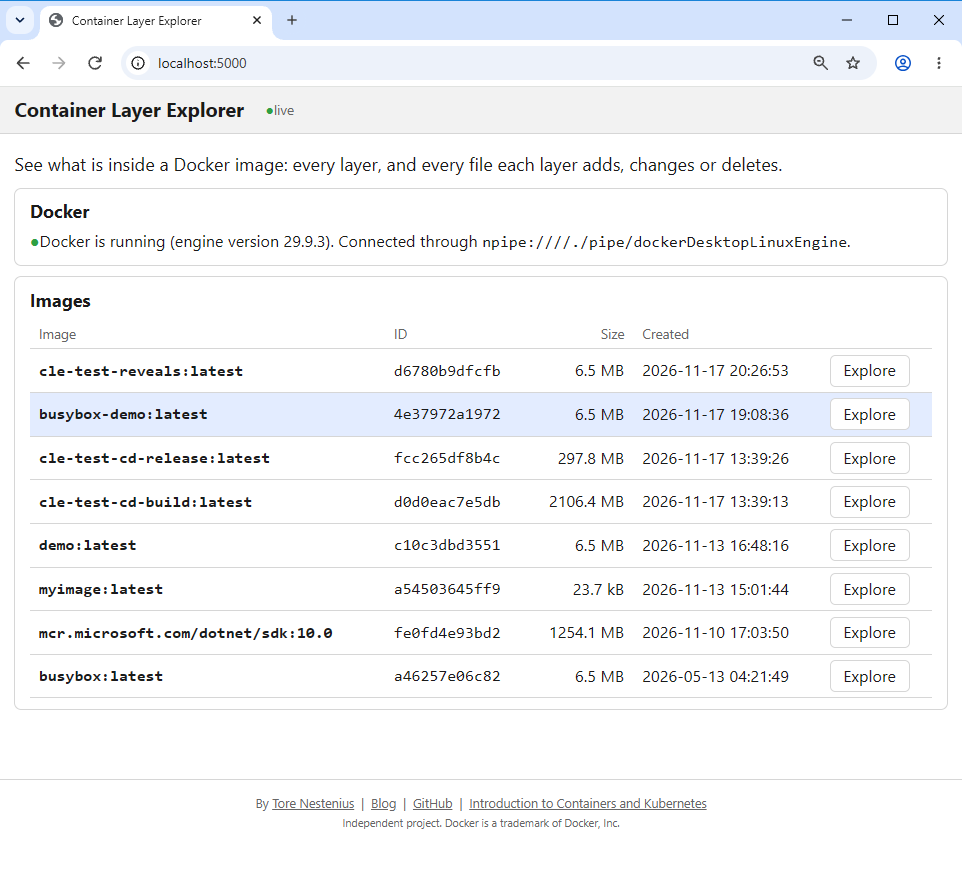
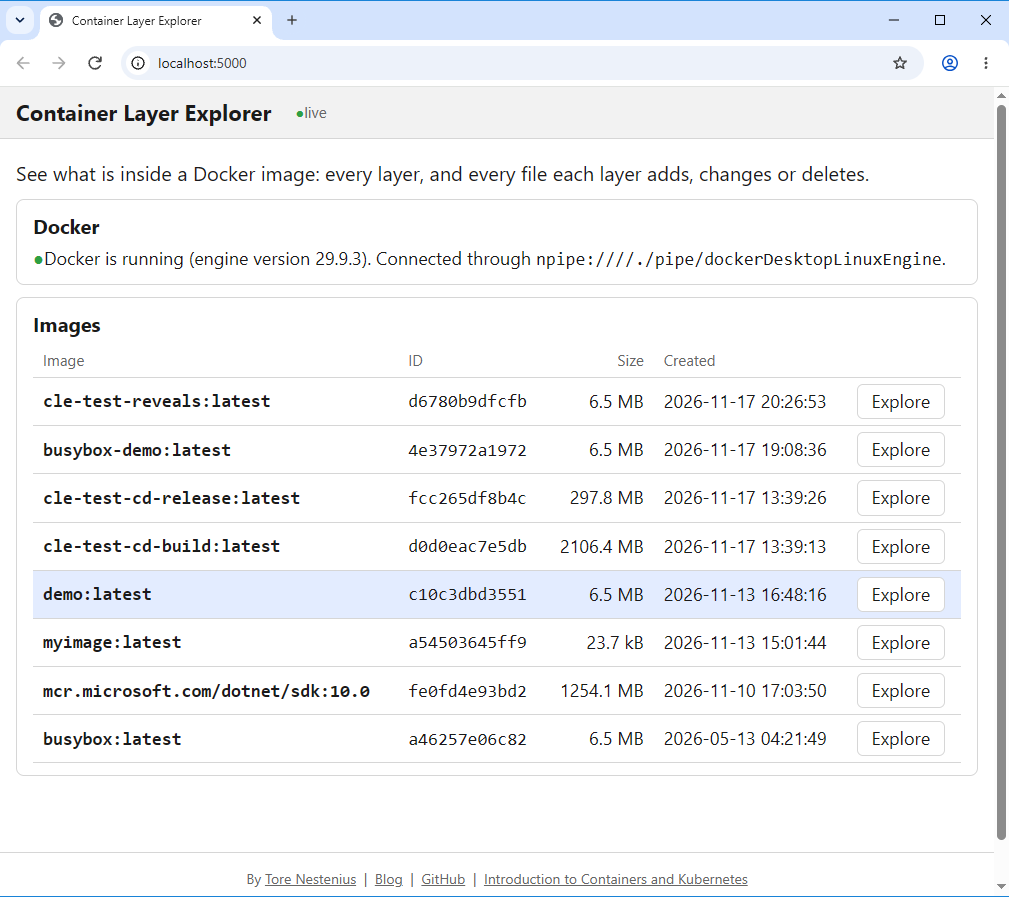
Refactorings and improvements

diff --git a/README.md b/README.md
@@ -3,41 +3,35 @@
 [![Build and test](https://github.com/tndata/ContainerLayerExplorer/actions/workflows/build-and-test.yml/badge.svg)](https://github.com/tndata/ContainerLayerExplorer/actions/workflows/build-and-test.yml)
 [![License: MIT](https://img.shields.io/badge/license-MIT-blue.svg)](LICENSE)
 
-Container Layer Explorer is a local web tool for exploring Docker and OCI image layers. It shows which files each layer of a container image adds, changes or deletes, as a matrix of file paths and layers, and it updates automatically when you rebuild the image. It also draws the image as a stack of layers and shows what the image config and manifest reveal.
+Container Layer Explorer is a local web app that shows every layer of a Docker or OCI image and what each build step adds, changes or deletes. You see the layers as a matrix of file paths and as a stack, together with what the image config and manifest reveal. The view updates when you rebuild the image.
 
-![The Matrix view of the sample image: one column per layer, one row per path, with added (A), changed (M) and deleted (D) cells and a Result column](docs/images/matrix.png)
+When I teach containers, I notice that developers use images every day, but the layered file system inside them is often a challenge to grasp. The same questions keep coming up:
 
-## Why I built it
+- Which files end up in which layer?
+- What happens when I delete a file in a later step?
+- What affects the final image size?
 
-When I teach containers, one challenge is to present image building in an intuitive way and to give students the right mental model of what happens. So I created this tool to visualize it. You see every layer of an image and what each build step adds, changes or deletes, and the view updates when you rebuild. I use it in my container training, and I have decided to open source it.
+I built Container Layer Explorer to make that visible, so you get a clear mental model of how the layers are stacked on top of each other and merged into the one file system that a container sees. This is the idea behind a union file system. I also use it in my own training, for example in my course [Introduction to Containers and Kubernetes](https://tn-data.se/courses/introduction-to-containers-and-kubernetes/).
 
-## What it shows
+The diagram below shows the general setup:
 
-- **A matrix of paths and layers.** An image opens in the Matrix view: one row per file or folder, one column per layer. Each cell says if the layer added (A), changed (M) or deleted (D) that path, and the Result column shows what a container gets.
-- **How deletions work.** A deleted file is only hidden by a whiteout marker in a later layer. The file is still in the layer below, so the image does not get smaller. The tool shows that.
-- **File contents.** Click a cell to see what the layer did to that path and, for a text file, its content in that layer.
-- **The build steps.** Each layer column shows the Dockerfile step behind it. Click the column header for the full command and the steps that make no layer, such as `ENV` and `CMD`.
-- **Large images.** The folders directly under `/` start collapsed into one summary row each, with the number of paths and what each layer adds, changes or deletes in them. Expand what you want to look at. A filter box narrows the paths.
-- **The image as a stack.** Switch to the Stack view to see the layers drawn bottom to top, the first build step at the bottom and the last on top, each with its build command, a short layer ID, its compressed size and the size of its files. Thin 0 B rows are the steps that make no layer, such as `ENV` and `LABEL`. Above the stack are the image's tags, image ID, creation time, platform, the number of layers and build steps, and the size of the files and of the stored, compressed layers.
-- **What an image reveals.** With the image selected, the right side lists what anyone with a copy of the image can read from its config and manifest: creation time, build steps, author, labels, environment variables, user, ports, volumes, health check and more. Each row says where the fact comes from, and an empty row says what is missing.
-
-  ![The Stack view of the sample image: the image facts at the top, the five layers drawn as a stack on the left, and what the image reveals on the right](docs/images/stack.png)
-
-- **Layer details.** Click a layer in the stack to see its details instead: the build step and its time, both fingerprints (content and stored blob), the sizes and compression, what it adds, changes and deletes, its biggest files, how much of its data later layers hide, and permission facts such as setuid programs and world-writable folders. A step without a layer can be clicked too.
-
-  ![The Stack view with layer 3 selected: its build step, fingerprints, sizes, changes and biggest files on the right](docs/images/stack-layer.png)
-
-- **Live update.** Build or rebuild an image and the page follows it. A layer that is new since your previous build gets a NEW badge, and the layers that came from the build cache do not.
-- **A start page.** It lists the images in your local Docker, updates live, and shows a message when Docker is not running.
+![Overview: a container registry, docker pull into Docker Desktop on your computer, the container image read by Container Layer Explorer, and the result shown in the browser at localhost](docs/images/container-layer-explorer-overview.png)
 
 ## Requirements
 
-- The [.NET 10 SDK](https://dotnet.microsoft.com/download) or newer
-- [Docker Desktop](https://www.docker.com/products/docker-desktop/), running
+I have tested the tool in the following setup:
+
+- Windows with [Docker Desktop](https://www.docker.com/products/docker-desktop/), running.
+- Docker Desktop in Linux containers mode (the default).
+- The [.NET 10 SDK](https://dotnet.microsoft.com/download).
+
+There are no binary releases. You build and run the tool from source.
+
+I have not tested other setups, such as Linux, macOS or other container engines. Help to support and verify them is welcome, so get in touch or send a pull request.
 
 ## Quick start
 
-1. Start Docker Desktop, then run the tool from source:
+1. Start Docker Desktop. Then get the source code and run the tool:
 
    ```bash
    git clone https://github.com/tndata/ContainerLayerExplorer.git
@@ -45,26 +39,30 @@ When I teach containers, one challenge is to present image building in an intuit
    dotnet run --project src/ContainerLayerExplorer
    ```
 
-   Your browser opens at <http://localhost:5000>.
+2. When the terminal shows `Now listening on: http://localhost:5000`, open <http://localhost:5000> in your browser. Leave that terminal running. The tool stops when you press Ctrl+C or close the terminal.
 
-2. In another terminal, make an empty folder with a text file called `Hello.txt` (any text) and a `Dockerfile`:
+3. In another terminal, make an empty folder with a text file called `Hello.txt` (any text) and a `Dockerfile`:
 
    ```dockerfile
    FROM scratch
    COPY Hello.txt /
    ```
 
-3. Build it:
+   This Dockerfile starts from `scratch`, the empty image, and copies `Hello.txt` into the root of the image. The result is an image with a single layer.
+
+4. Build it from that folder:
 
    ```bash
    docker build -t demo .
    ```
 
-4. In the tool, pick `demo` and choose **Explore**. The Matrix view shows one layer column and its one file. Switch to **Stack** to see the same layer drawn as a stack.
+   Docker adds the default tag, so the image is called `demo:latest`.
 
-   ![The start page: Docker status and the list of local images](docs/images/start-page.png)
+5. On the start page, find `demo:latest` and choose **Explore**. The Matrix view shows one layer column and its one file. Switch to **Stack** to see the same layer drawn as a stack.
 
-5. Add a line to the Dockerfile and build again:
+   ![The start page: Docker status and the list of local images, with demo:latest highlighted](docs/images/start-page.png)
+
+6. Keep the page open. Add a line to the Dockerfile:
 
    ```dockerfile
    FROM scratch
@@ -72,46 +70,162 @@ When I teach containers, one challenge is to present image building in an intuit
    COPY Hello.txt /Hello2.txt
    ```
 
-   The page updates by itself. The new layer has a NEW badge, and the first one does not.
+   The new line copies the same `Hello.txt` again, this time as `/Hello2.txt`. That adds a second layer on top of the first one.
 
-The tests do not need Docker: `dotnet test`.
+   Then build again with the same command:
+
+   ```bash
+   docker build -t demo .
+   ```
+
+   The page updates by itself. The second layer gets a NEW badge, because its content was not in the image you had open. The first layer has the same content as before, so it gets no badge.
 
 ## Try the sample
 
 The folder [samples/busybox-basics](samples/busybox-basics) holds a small image built on `busybox:1.38.0-glibc` that shows all three kinds of change: added, changed and deleted.
 
-1. With the tool running, build the sample from the folder of this repository. It makes an image called `busybox-demo`:
+1. With the tool running, open a terminal in the folder of this repository and build the sample. It makes an image called `busybox-demo:latest`:
 
    ```bash
    docker build -t busybox-demo samples/busybox-basics
    ```
 
-2. In the tool, pick `busybox-demo` and choose **Explore**. The Matrix view shows the five layers as columns, BusyBox in layer 1. Look at the `/src` folder:
+2. On the start page, find `busybox-demo:latest` and choose **Explore**. The Matrix view shows the five layers as columns, BusyBox in layer 1. Look at the `/src` folder:
    - `Hello1.txt` is added in layer 3 (A) and changed in layer 4 (M). Click the M cell: the layer stores the whole new file, and the old version is still stored in layer 3.
-   - `Hello2.txt` is added in layer 3 and deleted in layer 5 (D). Click the D cell: the file is only hidden by a whiteout marker. Its data is still in layer 3, so the image did not get smaller.
+   - `Hello2.txt` is added in layer 3 and deleted in layer 5 (D). Click the D cell: layer 5 only holds a marker file, `.wh.Hello2.txt`, that hides it. Click **Show it** to see the file's content, still stored in layer 3.
+   - The Result cell of `Hello2.txt` is empty. A container started from this image does not get the file, but anyone with a copy of the image can still read it.
 3. Switch to **Stack** to see the same five layers drawn as a stack, BusyBox at the bottom, and what the image reveals. Click a layer for its details.
-4. Edit the `Dockerfile`, for example add another `COPY` line, and run the same `docker build` command again. Keep the page open and it updates by itself, with a NEW badge on the new layer.
+4. Keep the page open. Add a line at the end of the `Dockerfile`, for example `COPY Hello3.txt Hello4.txt`, and run the same command again:
 
-## What was tested
+   ```bash
+   docker build -t busybox-demo samples/busybox-basics
+   ```
 
-I test the tool on Windows with Docker Desktop. The unit tests also run on Linux in GitHub Actions. The tool can also talk to Docker through a Unix socket, but I have not tried Linux or macOS, so I do not claim that they work.
+   The page updates by itself. The new layer gets a NEW badge. The five layers below it have the same content as before, so they get none.
+
+## How it works
+
+Container Layer Explorer runs on your own computer, next to Docker Desktop, and works only with the images in your local Docker. The basic steps are:
+
+1. **Get an image into Docker.** First, you need a container image in Docker Desktop. You can either build one locally from a Dockerfile or pull one from a registry, such as Docker Hub.
+2. **Start Container Layer Explorer.** Run the tool (see [Quick start](#quick-start)). When the terminal shows `Now listening on`, open `http://localhost:5000` in your browser.
+3. **Open an image.** The start page lists the tagged images in your local Docker. Choose one, and the tool exports it from Docker through the Docker Engine API (the same export as `docker save`) and reads its layers, config and manifest.
+4. **Explore the layers.** See the image as a matrix of files and layers, or as a stack of layers.
+5. **Rebuild and watch it update.** The tool listens to Docker's image events, so when you build, tag or remove an image, the page updates by itself.
+
+The tool changes nothing in Docker. It never starts a container, and it never pushes, pulls, deletes or changes an image. To read an image it does write a copy to your disk, see [Trust and responsibility](#trust-and-responsibility).
+
+## The two views
+
+An image can be shown in two ways, and you switch between them with the **Stack | Matrix** toggle at the top of the page. An image opens in the Matrix view.
+
+### The Matrix view
+
+![The Matrix view of the sample image: one column per layer, one row per path, with added (A), changed (M) and deleted (D) cells and a Result column](docs/images/matrix.png)
+
+- **Paths and layers.** One row per file or folder, one column per layer. Each cell shows if the layer added (A), changed (M) or deleted (D) that path. M means the layer wrote the path again; the contents are not compared.
+- **The result.** The Result column shows the final file system, which is what a container gets. A deleted file is only hidden: its data is still stored in the layer below, so the image does not get smaller.
+- **File contents.** Click a cell to see what the layer did to that path, and the content of a text file in that layer.
+- **Build steps.** Each column shows the Dockerfile step behind the layer, taken from the build history stored in the image. Click the column header for the full command.
+- **Large images.** Top-level folders start collapsed, and a filter box narrows the list.
+
+### The Stack view
+
+![The Stack view of the sample image: the image facts at the top, the five layers drawn as a stack on the left, and what the image reveals on the right](docs/images/stack.png)
+
+- **The image as a stack.** The Stack view draws the layers bottom to top, the first build step at the bottom. Each layer shows its build command, a short layer ID and two sizes:
+  - *compressed*: the size of the layer as it is stored in Docker's export of the image, usually gzip-compressed. This is roughly what a push or a pull transfers.
+  - *of files*: the sizes of the files in the layer's file list added up, uncompressed. A deleted file counts as 0 B here, because the layer only holds its marker.
+
+  Steps that make no layer, such as `ENV` and `LABEL`, are thin 0 B rows. Above the stack are the image's tags, image ID, creation time, platform, the number of layers and build steps, and the same two sizes for the whole image (*of files* and *stored, compressed*). The files figure adds up every layer, including files that later layers change or delete, so it differs from the size on the start page, which is Docker's own figure.
+- **What an image reveals.** With the image selected, the right side lists what anyone with a copy of the image can read from its config and manifest: creation time, build steps, author, labels, environment variables, user, ports, volumes, health check and more. Each row says where the fact comes from, and an empty row says what is missing.
+- **Layer details.** Click a layer in the stack for its details: the build step and its time, both fingerprints (content and stored blob), the sizes and compression, what it adds, changes and deletes, its biggest files, how much of its data later layers hide, and permission facts such as setuid programs and world-writable folders. A step without a layer can be clicked too.
+
+### In both views
+
+- **Live update.** While the explorer page is open, it follows its tag. When the tag points to a new image, for example after a rebuild, the page loads it, and each layer whose content digest was not in the image shown before gets a NEW badge. A layer with the same content as before gets no badge, whether Docker took it from the build cache or built it again with the same result. The badges only compare with what the open page showed: when you reload the page, they are gone.
+- **A start page.** It lists the tagged images in your local Docker, one row per tag, updates live, and shows a message when it cannot reach Docker.
+
+## Troubleshooting
+
+### The page does not open
+
+Look in the terminal where the tool runs. When it is ready, it shows `Now listening on: http://localhost:5000`. If it shows `address already in use` instead, another program, or another copy of the tool, already uses port 5000. Stop that program, or start the tool on another port and open that address instead:
+
+```bash
+dotnet run --project src/ContainerLayerExplorer --urls http://localhost:5050
+```
+
+### The page cannot reach Docker
+
+Start Docker Desktop and wait until it is running. Then run `docker version` in a terminal. Its output must have a `Server` section. If it only shows `Client`, the Docker engine is not running, and the tool cannot reach it either. The page updates by itself when Docker is back.
+
+### An image is missing from the start page
+
+The start page lists tagged images only. An image you built without `-t` has no tag, so give it one: `docker tag <image ID> myimage`.
+
+The image must also be in the Docker engine that the tool talks to. The start page shows which one, after "Connected through". The tool does not follow `docker context`: it uses the `DOCKER_HOST` environment variable when it is set, and otherwise Docker Desktop's own connection. An image in a registry has to be pulled first, see the [FAQ](#can-i-look-at-an-image-from-docker-hub-or-another-registry).
+
+### An image is too large, or only partly shown
+
+Two limits in `src/ContainerLayerExplorer/appsettings.json` protect your computer:
+
+- `MaxImageSizeMb` (4096 by default). Before it exports an image, the tool compares the size that Docker reports for it with this limit. A bigger image is not opened, and the page shows its size and the limit. The tool also checks that the temp folder's drive has room for the image.
+- `MaxEntries` (200,000 by default). The tool reads at most this many file entries, counted over all layers from the bottom up. When it reaches the limit, it stops reading, opens the image anyway, and shows "Too many files: only the first part is shown." The layers after that point show no changes, and the sizes are too small.
+
+You can change both values under `Limits` in `appsettings.json`. Start the tool again afterwards. It does not start if a value is out of range (1 to 1,000,000 MB, and 1 to 100,000,000 entries).
+
+## Learn more
+
+<!-- TODO at go-live: link the post, https://nestenius.se/net/how-container-images-work-container-layer-explorer/ -->
+- I teach containers in my course [Introduction to Containers and Kubernetes](https://tn-data.se/courses/introduction-to-containers-and-kubernetes/).
 
 ## Trust and responsibility
 
-- It reads images from your local Docker. It never pushes, pulls, deletes or changes an image, and it never starts a container.
-- It can show the contents of files inside an image, and those files can include secrets. Use it on images you are allowed to open.
-- It listens on `localhost` only and has no sign-in. Do not expose it on a network.
+- It only reads from Docker. It never starts a container, and it never changes, deletes, pushes or pulls an image.
+- It can show the contents of files inside an image, and those files can include secrets.
+- It writes to your disk. To open an image, it exports it from Docker into a folder under your temp folder (on Windows, `%TEMP%\ContainerLayerExplorer`) and keeps the last six images there while it runs. That copy holds everything in the image, so it can contain sensitive files. The folder is removed when the tool shuts down normally. If the tool was stopped abruptly, the folder stays until a later start, which removes unused folders that are more than a day old.
+- It listens on `http://localhost:5000` by default, rejects requests with any other host name, and has no sign-in. Do not expose it on a network.
 - There are no binary releases. You build it from source.
 
 See [SECURITY.md](SECURITY.md) for how to report a security problem.
 
-## Learn more
+## FAQ
 
-I teach containers in my course [Introduction to Containers and Kubernetes](https://tn-data.se/courses/introduction-to-containers-and-kubernetes/).
+### What is the difference between Docker, container and OCI images?
+
+- **Container image** is the general term: an application and the file system it needs, packed as a stack of layers, plus the settings for starting it.
+- **Docker image** and **OCI image** are two closely related formats for container images. The [OCI Image Specification](https://github.com/opencontainers/image-spec) is the open standard from the [Open Container Initiative](https://opencontainers.org/). Docker's own format is described in the [Docker Image Manifest V2, Schema 2](https://distribution.github.io/distribution/spec/manifest-v2-2/) specification, and Docker donated its container format to the initiative as the starting point.
+- **What this tool opens:** both formats, as long as the image is in your local Docker. Images with zstd-compressed layers are not supported yet.
+
+### Does the tool start or change my containers?
+
+No. It never starts a container, and it never pushes, pulls, deletes or changes an image. See [Trust and responsibility](#trust-and-responsibility) for what it writes to your disk.
+
+### Does it work on Linux or macOS?
+
+I have not tested it there, see [Requirements](#requirements). If you try it, I would like to hear how it went, see [Contributing](#contributing).
+
+### Does it support other container engines?
+
+I have only tested it with Docker Desktop, see [Requirements](#requirements). Podman and Rancher Desktop (with its dockerd engine) offer a Docker-compatible API, so they may work, but I have not tried them. A report or a pull request is welcome.
+
+### Can I look at an image from Docker Hub or another registry?
+
+Yes, but not directly. The tool can only show the images in your local container engine (Docker Desktop), and it never connects to a registry itself. To look at an image from Docker Hub or another registry, first pull it into Docker Desktop, for example with `docker pull`. It then shows up on the start page.
+
+### Is it free?
+
+Yes. It is open source under the [MIT licence](LICENSE).
 
 ## Contributing
 
 Contributions are welcome, see [CONTRIBUTING.md](CONTRIBUTING.md).
+
+- To report a bug, use the [bug report](https://github.com/tndata/ContainerLayerExplorer/issues/new?template=bug_report.md) template.
+- To suggest an idea, use the [feature request](https://github.com/tndata/ContainerLayerExplorer/issues/new?template=feature_request.md) template.
+- If you try the tool on another operating system or with another container engine, open an issue and tell me your operating system, the Docker engine and its version, the steps you took, and what worked and what did not.
+- Report a security problem privately, as described in [SECURITY.md](SECURITY.md), not in a public issue.
 
 ## About the author
 

diff --git a/SECURITY.md b/SECURITY.md
@@ -13,9 +13,9 @@ This is a small open-source tool maintained by one person, so I cannot promise a
 
 Container Layer Explorer is meant to run on your own machine, for your own images:
 
-- It listens on `localhost` only, and it rejects requests with any other host name.
-- It reads images from your local Docker. It never pushes, pulls, deletes or changes an image, and it never starts a container.
-- It unpacks the image into a temporary folder on your disk and removes that folder when it exits (and cleans up old folders at the next start).
+- It listens on `localhost` (`http://localhost:5000` by default), and it rejects requests with any other host name.
+- It only reads from Docker. It never starts a container, and it never changes, deletes, pushes or pulls an image.
+- It writes to your disk. To open an image, it exports it from Docker into a folder under your temp folder. That copy holds everything in the image, so it can contain sensitive files. The folder is removed when the tool shuts down normally. If the tool was stopped abruptly, the folder stays until a later start, which removes unused folders that are more than a day old.
 - There are no accounts, no telemetry and no outgoing network calls, apart from the links shown in the page footer.
 
 Do not expose it on a network or put it behind a reverse proxy. It has no authentication, and it shows the files that are inside the images you open, which can include secrets.

diff --git a/CONTRIBUTING.md b/CONTRIBUTING.md
@@ -18,7 +18,7 @@ dotnet test
 dotnet run --project src/ContainerLayerExplorer
 ```
 
-The tool then opens at http://localhost:5000.
+When the terminal shows `Now listening on: http://localhost:5000`, open that address in your browser.
 
 The tests do not need Docker. They run on Linux in GitHub Actions. The tool itself is only tested by hand with Docker Desktop on Windows, so say in your pull request what you tried it with.
 
